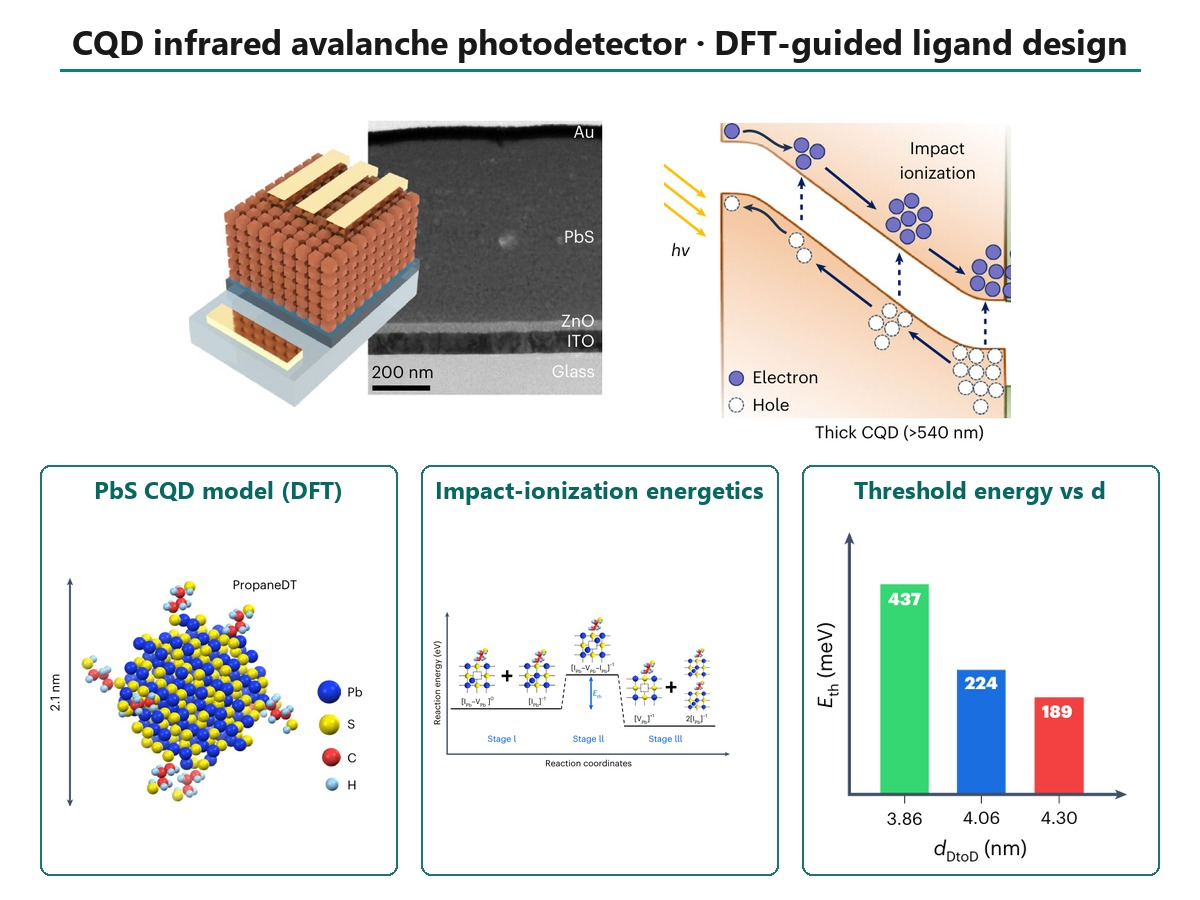
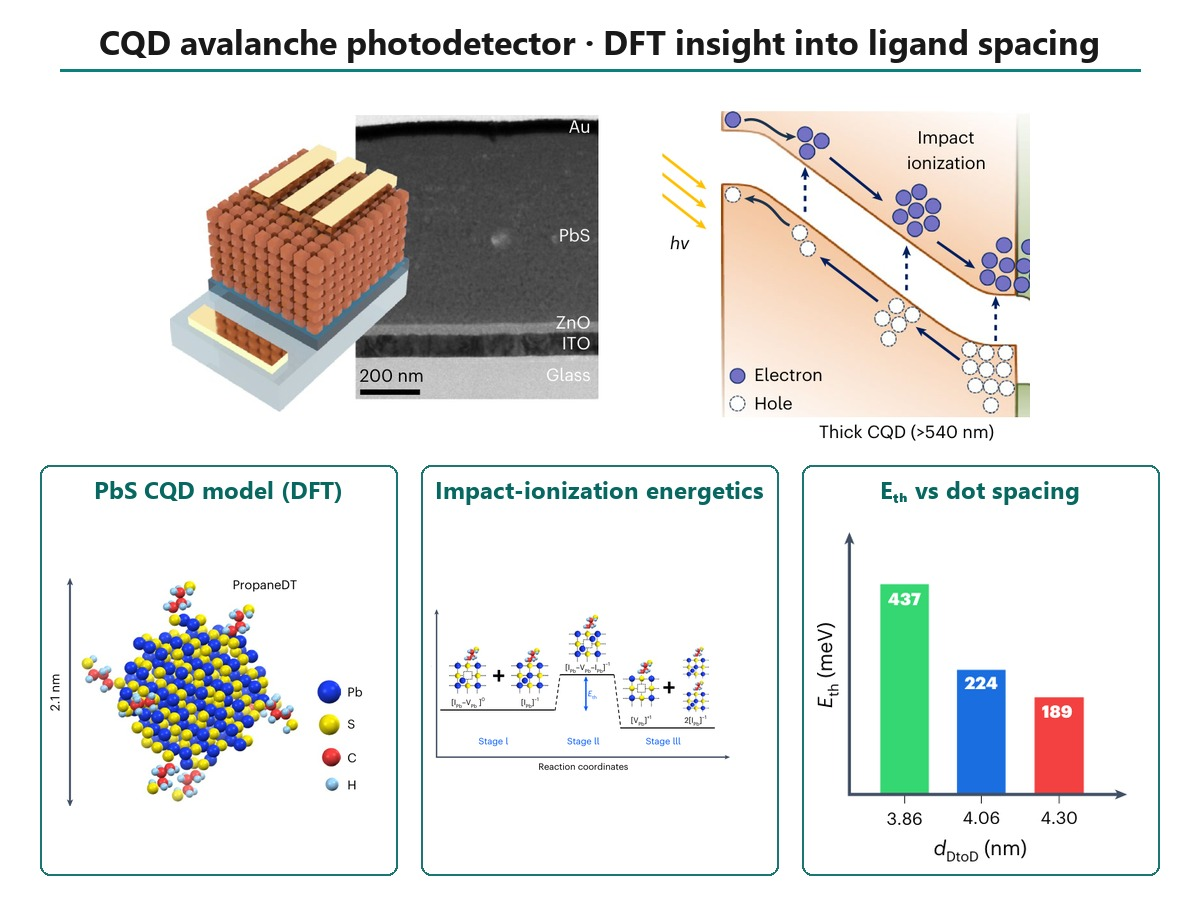
Fix title, crops and captions in thumbnails 41 and 42
Claude-Session: https://claude.ai/code/session_01C8otz9xRUX7zpZLP7SNUXe

diff --git a/index.html b/index.html
@@ -407,6 +407,6 @@
 <script id="imgdata" type="application/json">{"logo": "assets/img/logo.png", "concept": "assets/img/concept.jpg", "scope": "assets/img/scope.jpg?v=20261005", "pillars": "assets/img/pillars.jpg", "qr": "assets/img/qr.jpg", "pi": "assets/img/pi.jpg?v=20261010", "m_bincy": "assets/img/m_bincy.jpg", "m_ganji": "assets/img/m_ganji.jpg", "m_prabha": "assets/img/m_prabha.jpg", "m_ksw": "assets/img/m_ksw.jpg", "m_kjb": "assets/img/m_kjb.jpg", "m_khn": "assets/img/m_khn.jpg", "m_cde": "assets/img/m_cde.jpg", "m_smt": "assets/img/m_smt.jpg", "m_shj": "assets/img/m_shj.jpg", "m_ldg": "assets/img/m_ldg.jpg", "m_lsh": "assets/img/m_lsh.jpg", "m_jsw": "assets/img/m_jsw.jpg", "sw_ansys": "assets/img/sw_ansys.png", "sw_fluent": "assets/img/sw_fluent.png", "sw_comsol": "assets/img/sw_comsol.png", "sw_digimat": "assets/img/sw_digimat.png", "sw_geodict": "assets/img/sw_geodict.png", "sw_hepigans": "assets/img/sw_hepigans.png", "sw_msstudio": "assets/img/sw_msstudio.png", "sw_piano": "assets/img/sw_piano.png", "sw_vasp": "assets/img/sw_vasp.png", "n_grad": "assets/img/n_grad.jpg", "n_cover": "assets/img/n_cover.jpg", "n_plat": "assets/img/n_plat.jpg?v=20260905", "n_award": "assets/img/n_award.jpg", "n_geo": "assets/img/n_geo.jpg", "n_qd": "assets/img/n_qd.jpg", "n_marine": "assets/img/n_marine.jpg", "n_hydro": "assets/img/pub/20.jpg", "n_amds": "assets/img/n_amds.jpg", "n_etamds": "assets/img/n_etamds.jpg", "n_mico": "assets/img/n_mico.jpg", "n_halide": "assets/img/n_halide.jpg?v=20260905", "n_tribo": "assets/img/pub/13.jpg", "m_kgw": "assets/img/m_kgw.jpg", "m_gf": "assets/img/m_gf.jpg", "m_uk": "assets/img/m_uk.jpg"}</script>
 <script id="galdata" type="application/json">[{"id": "e2609b", "date": "2026.09.30–10.02", "title": "Korean Ceramic Society", "note": "추계학술대회", "cover": "assets/img/gallery/e2609b-cover.jpg", "shots": ["assets/img/gallery/e2609b-01.jpg", "assets/img/gallery/e2609b-02.jpg"]}, {"id": "e2609", "date": "2026.09.08", "title": "Welcome, Daeun!", "note": "최다은 연구원 환영회", "cover": "assets/img/gallery/e2609-cover.jpg", "shots": ["assets/img/gallery/e2609-01.jpg"]}, {"id": "e2606", "date": "2026.06.21–24", "title": "CIMTEC 2026 · 10th Forum on New Materials", "note": "Perugia, Italy", "cover": "assets/img/gallery/e2606-cover.jpg", "shots": ["assets/img/gallery/e2606-01.jpg", "assets/img/gallery/e2606-02.jpg", "assets/img/gallery/e2606-04.jpg", "assets/img/gallery/e2606-03.jpg"]}, {"id": "e2605b", "date": "2026.05.15", "title": "Teachers' Day", "note": "스승의 날", "cover": "assets/img/gallery/e2605b-cover.jpg", "shots": ["assets/img/gallery/e2605b-02.jpg"]}, {"id": "e2605a", "date": "2026.05.08", "title": "Homecoming", "note": "졸업생 방문", "cover": "assets/img/gallery/e2605a-cover.jpg", "shots": ["assets/img/gallery/e2605a-14.jpg"]}, {"id": "e2604", "date": "2026.04.08–10", "title": "Korean Ceramic Society", "note": "춘계학술대회", "cover": "assets/img/gallery/e2604-cover.jpg", "shots": ["assets/img/gallery/e2604-08.jpg", "assets/img/gallery/e2604-01.jpg", "assets/img/gallery/e2604-06.jpg"]}, {"id": "e2601", "date": "2026.01.09", "title": "Birthday", "note": "", "cover": "assets/img/gallery/e2601-cover.jpg", "shots": ["assets/img/gallery/e2601-01.jpg"]}, {"id": "e2511", "date": "2025.11.19–22", "title": "39th Korea–Japan Seminar on Ceramics", "note": "Oriental Hotel, Jeju", "cover": "assets/img/gallery/e2511-cover.jpg", "shots": ["assets/img/gallery/e2511-01.jpg", "assets/img/gallery/e2511-02.jpg", "assets/img/gallery/e2511-04.jpg"]}, {"id": "e2506", "date": "2025.06.02", "title": "Congrats, Donggeon!", "note": "이동건 취업 축하 파티", "cover": "assets/img/gallery/e2506-cover.jpg", "shots": ["assets/img/gallery/e2506-01.jpg"]}, {"id": "e2505", "date": "2025.05.15", "title": "Teachers' Day", "note": "스승의 날", "cover": "assets/img/gallery/e2505-cover.jpg", "shots": ["assets/img/gallery/e2505-03.jpg", "assets/img/gallery/e2505-05.jpg"]}, {"id": "e2503", "date": "2025.03.13", "title": "Group meeting", "note": "", "cover": "assets/img/gallery/e2503-cover.jpg", "shots": ["assets/img/gallery/e2503-01.jpg"]}, {"id": "e2502b", "date": "2025.02.27", "title": "Welcome Dr. Karan", "note": "환영회", "cover": "assets/img/gallery/e2502b-cover.jpg", "shots": ["assets/img/gallery/e2502b-01.jpg", "assets/img/gallery/e2502b-02.jpg"]}, {"id": "e2502a", "date": "2025.02.05–07", "title": "Nature Conference: Materials for AI", "note": "KAIST", "cover": "assets/img/gallery/e2502a-cover.jpg", "shots": ["assets/img/gallery/e2502a-01.jpg"]}, {"id": "e2501", "date": "2025.01.10", "title": "Birthday", "note": "", "cover": "assets/img/gallery/e2501-cover.jpg", "shots": ["assets/img/gallery/e2501-01.jpg"]}, {"id": "e2410", "date": "2024.10.16–18", "title": "Korean Ceramic Society", "note": "추계학술대회", "cover": "assets/img/gallery/e2410-cover.jpg", "shots": ["assets/img/gallery/e2410-04.jpg", "assets/img/gallery/e2410-01.jpg", "assets/img/gallery/e2410-02.jpg"]}, {"id": "e2409", "date": "2024.09.22–27", "title": "Multiscale Materials Modeling (MMM11)", "note": "", "cover": "assets/img/gallery/e2409-cover.jpg", "shots": ["assets/img/gallery/e2409-01.jpg", "assets/img/gallery/e2409-02.jpg", "assets/img/gallery/e2409-09.jpg", "assets/img/gallery/e2409-03.jpg", "assets/img/gallery/e2409-04.jpg", "assets/img/gallery/e2409-05.jpg", "assets/img/gallery/e2409-06.jpg"]}, {"id": "e2403", "date": "2024.03.15–16", "title": "Membership Training", "note": "Geoje", "cover": "assets/img/gallery/e2403-cover.jpg", "shots": ["assets/img/gallery/emt-01.jpg"]}, {"id": "e2305", "date": "2023.05.19–20", "title": "Membership Training", "note": "Changwon", "cover": "assets/img/gallery/e2305-cover.jpg", "shots": ["assets/img/gallery/emt-06.jpg", "assets/img/gallery/emt-02.jpg"]}]</script>
 <script id="pubdata" type="application/json">[{"id": 62, "date": "2026-10-01", "year": 2026, "title": "Flavonoid-coordinated NiCo bimetallic complex for interfacial electronic reconstruction and d-band engineering in BiVO4 toward sustainable solar water oxidation", "venue": "Journal of Energy Chemistry", "jif": 15.6, "q": "Q1", "cites": 0, "role": "co-author", "pos": [8, 10], "doi": "https://doi.org/10.1016/j.jechem.2026.06.082", "authors": [{"n": "Pratik Mane", "lab": false, "m": ""}, {"n": "Sampath Prabhakaran", "lab": true, "m": ""}, {"n": "Vishal Burungale", "lab": false, "m": ""}, {"n": "Hyojung Bae", "lab": false, "m": ""}, {"n": "Jiwon Heo", "lab": false, "m": ""}, {"n": "Chaewon Seong", "lab": false, "m": ""}, {"n": "Dhanashri Burungale", "lab": false, "m": ""}, {"n": "Hyunseok Ko", "lab": true, "m": ""}, {"n": "Sang Hyun Lee", "lab": false, "m": ""}, {"n": "Jun-Seok Ha", "lab": false, "m": ""}], "fig": 1}, {"id": 61, "date": "2026-08-25", "year": 2026, "title": "Effect of fumed silica content on the microstructural evolution and mechanical properties of metakaolin-based basalt fiber-reinforced geopolymer matrix composites", "venue": "Advanced Composite Materials", "jif": null, "q": null, "cites": 0, "role": "co-corresponding", "pos": [5, 5], "doi": "https://doi.org/10.1080/09243046.2026.2721819", "authors": [{"n": "Sanghun Lee", "lab": true, "m": "†"}, {"n": "Shinwoo Kang", "lab": true, "m": "†"}, {"n": "Hyung Mi Lim", "lab": false, "m": ""}, {"n": "Seog-Young Yoon", "lab": false, "m": "*"}, {"n": "Hyunseok Ko", "lab": true, "m": "*"}], "fig": 1}, {"id": 60, "date": "2026-11-01", "year": 2026, "title": "Composition and Processing Descriptors Govern Electroceramic Property Prediction: A Multi-Modal Interpretable Framework for BaTiO3-Based Ceramics", "venue": "Journal of Materiomics", "jif": 10.6, "q": "Q1", "cites": 0, "role": "co-corresponding", "pos": [6, 7], "doi": "https://doi.org/10.1016/j.jmat.2026.101282", "authors": [{"n": "Saman khalid", "lab": false, "m": "†"}, {"n": "Muhammad Faseeh", "lab": false, "m": "†"}, {"n": "Murad Ali Khan", "lab": false, "m": ""}, {"n": "Hyejeong Song", "lab": true, "m": ""}, {"n": "Syed Shehryar Ali Naqvi", "lab": false, "m": ""}, {"n": "Hyunseok Ko", "lab": true, "m": "*"}, {"n": "Do-Hyeun Kim", "lab": false, "m": "*"}], "fig": 1}, {"id": 59, "date": "2026-08-01", "year": 2026, "title": "Multi-model machine learning framework for predicting material properties of BaTiO3-based ferroelectric ceramics", "venue": "Materials & Design", "jif": 8.2, "q": "Q1", "cites": 0, "role": "co-corresponding", "pos": [6, 7], "doi": "https://doi.org/10.1016/j.matdes.2026.116418", "authors": [{"n": "Saman Khalid", "lab": false, "m": "†"}, {"n": "Muhammad Faseeh", "lab": false, "m": ""}, {"n": "Hyejeong Song", "lab": true, "m": ""}, {"n": "Murad Ali Khan", "lab": false, "m": ""}, {"n": "Syed Shehryar Ali Naqvi", "lab": false, "m": ""}, {"n": "Hyunseok Ko", "lab": true, "m": "*"}, {"n": "Do-Hyeon Kim", "lab": false, "m": "*"}], "fig": 1}, {"id": 58, "date": "2026-08-01", "year": 2026, "title": "Reinforced surface reactivity via incorporation of metal catalyst onto perovskite oxide for CO2 reduction", "venue": "Materials Today Energy", "jif": 8.1, "q": "Q1", "cites": 0, "role": "co-corresponding", "pos": [9, 10], "doi": "https://doi.org/10.1016/j.mtener.2026.102327", "authors": [{"n": "Sang Won Lee", "lab": false, "m": "†"}, {"n": "Sampath Prabhakaran", "lab": true, "m": "†"}, {"n": "Tae Heon Nam", "lab": false, "m": ""}, {"n": "Geunwoo Kim", "lab": true, "m": ""}, {"n": "Jae Hoon Lim", "lab": false, "m": ""}, {"n": "Hyejeong Song", "lab": true, "m": ""}, {"n": "Sungtae Park", "lab": false, "m": ""}, {"n": "Jong Hyeok Park", "lab": false, "m": "*"}, {"n": "Hyunseok Ko", "lab": true, "m": "*"}, {"n": "Tae Ho Shin", "lab": false, "m": "*"}], "fig": 1}, {"id": 57, "date": "2026-12-01", "year": 2026, "title": "High Polarity Doping of CoFe Layered Hydroxides: Bifunctional and Corrosion-Resistant Anion Exchange Membrane Seawater Electrolyzers", "venue": "Nano-Micro Letters", "jif": 38.5, "q": "Q1", "cites": 2, "role": "co-author", "pos": [6, 11], "doi": "https://doi.org/10.1007/s40820-026-02230-8", "authors": [{"n": "Anandhan Ayyappan Saj", "lab": false, "m": "†"}, {"n": "Sampath Prabhakaran", "lab": true, "m": "†"}, {"n": "Moshin Rasool", "lab": false, "m": ""}, {"n": "Kousik Bhunia", "lab": false, "m": ""}, {"n": "Dongho Lee", "lab": false, "m": ""}, {"n": "Hyunseok Ko", "lab": true, "m": ""}, {"n": "Tukaram D. Dongale", "lab": false, "m": ""}, {"n": "Muthukumar Perumalsamy", "lab": false, "m": ""}, {"n": "Arul Saravanan Raaju Sundhar", "lab": false, "m": ""}, {"n": "Do Hwan Kim", "lab": false, "m": "*"}, {"n": "Sang Jae Kim", "lab": false, "m": "*"}], "fig": 1}, {"id": 56, "date": "2026-08-01", "year": 2026, "title": "Low temperature/low-pressure fabrication of oxide/oxide ceramic matrix composites with excellent mechanical properties and stealth capabilities", "venue": "Advanced Composites and Hybrid Materials", "jif": 15.5, "q": "Q1", "cites": 0, "role": "co-author", "pos": [3, 7], "doi": "https://doi.org/10.1007/s42114-026-01816-5", "authors": [{"n": "Shanigaram Mallesh", "lab": false, "m": "†"}, {"n": "Dong-Jun Hong", "lab": false, "m": ""}, {"n": "Hyunseok Ko", "lab": true, "m": ""}, {"n": "Sanghun Lee", "lab": true, "m": ""}, {"n": "Chae-Hwan Lim", "lab": false, "m": ""}, {"n": "Won-Ho Choi", "lab": false, "m": ""}, {"n": "Young-Woo Nam", "lab": false, "m": "*"}], "fig": 1}, {"id": 55, "date": "2026-06-17", "year": 2026, "title": "Mechanistic insights into vacancy-driven activation and dissociation of hydrogen peroxide on Ti3C2O2 MXene in water", "venue": "Nanoscale Advances", "jif": 6.3, "q": "Q2", "cites": 0, "role": "corresponding", "pos": [2, 2], "doi": "https://doi.org/10.1039/d5na00962f", "authors": [{"n": "Masoud Darvish Ganji", "lab": true, "m": "†"}, {"n": "Hyunseok Ko", "lab": true, "m": "*"}], "fig": 1, "sel": 1}, {"id": 54, "date": "2026-06-01", "year": 2026, "title": "Bridging the theoretical gap between electronic structure and dynamic stability: An integrated computational framework for ZnO sheet-based chemical warfare agent sensors", "venue": "Surfaces and Interfaces", "jif": 6.0, "q": "Q2", "cites": 5, "role": "co-corresponding", "pos": [3, 3], "doi": "https://doi.org/10.1016/j.surfin.2026.109196", "authors": [{"n": "Masoud Darvish Ganji", "lab": true, "m": "†"}, {"n": "Mahyar Rezvani", "lab": false, "m": ""}, {"n": "Hyunseok Ko", "lab": true, "m": "*"}], "fig": 1}, {"id": 53, "date": "2026-07-01", "year": 2026, "title": "Numerical analysis and optimization of horizontal MOCVD reactor design parameters for uniform GaN thin films", "venue": "Journal of the Korean Ceramic Society", "jif": 4.4, "q": "Q1", "cites": 0, "role": "co-corresponding", "pos": [3, 3], "doi": "https://doi.org/10.1007/s43207-026-00602-9", "authors": [{"n": "Haneul Kim", "lab": true, "m": "†"}, {"n": "Roy Byung Kyu Chung", "lab": false, "m": ""}, {"n": "Hyunseok Ko", "lab": true, "m": "*"}], "fig": 1}, {"id": 52, "date": "2026-03-01", "year": 2026, "title": "Processing-structure-property prediction in polycrystalline BaTiO3 ceramics using experimental and computational data fusion", "venue": "Materials Today Communications", "jif": 4.9, "q": "Q2", "cites": 1, "role": "co-corresponding", "pos": [6, 7], "doi": "https://doi.org/10.1016/j.mtcomm.2026.115004", "authors": [{"n": "Muhammad Faseeh", "lab": false, "m": "†"}, {"n": "Hyejeong Song", "lab": true, "m": ""}, {"n": "Murad Ali Khan", "lab": false, "m": ""}, {"n": "Syed Shehryar Ali Naqvi", "lab": false, "m": ""}, {"n": "Saman Khalid", "lab": false, "m": ""}, {"n": "Hyunseok Ko", "lab": true, "m": "*"}, {"n": "Do-Hyeun Kim", "lab": false, "m": "*"}], "fig": 1}, {"id": 51, "date": "2026-03-01", "year": 2026, "title": "Hierarchically structured Cu-Fe-S nanomaterials as dual-functional catalysts for enhanced hydrogen evolution and photocatalytic dye degradation", "venue": "Journal of Alloys and Compounds", "jif": 6.7, "q": "Q2", "cites": 0, "role": "co-corresponding", "pos": [7, 8], "doi": "https://doi.org/10.1016/j.jallcom.2026.187031", "authors": [{"n": "C.K. Sushma", "lab": false, "m": "†"}, {"n": "Hyeon Woo Kim", "lab": false, "m": ""}, {"n": "Maheshkumar V", "lab": false, "m": ""}, {"n": "Anju Sebastian", "lab": false, "m": ""}, {"n": "Masoud Darvish Ganji", "lab": true, "m": ""}, {"n": "Sung Beom Cho", "lab": false, "m": ""}, {"n": "Hyunseok Ko", "lab": true, "m": "*"}, {"n": "Vidhya Bhojan", "lab": false, "m": "*"}], "fig": 1}, {"id": 50, "date": "2026-02-01", "year": 2026, "title": "First-Principles Models of Triboelectrification", "venue": "Small Methods", "jif": 8.7, "q": "Q1", "cites": 0, "role": "co-author", "pos": [3, 6], "doi": "https://doi.org/10.1002/smtd.202501782", "authors": [{"n": "Giulio Fatti", "lab": true, "m": "†"}, {"n": "John Cavin", "lab": false, "m": ""}, {"n": "Hyunseok Ko", "lab": true, "m": ""}, {"n": "Rohan Mishra", "lab": false, "m": ""}, {"n": "Daniele Dini", "lab": false, "m": ""}, {"n": "Sung Beom Cho", "lab": false, "m": ""}], "fig": 1}, {"id": 49, "date": "2026-01-02", "year": 2026, "title": "Toward efficient dielectric material discovery: a comparative evaluation of Transformer and AutoML-based inverse learning", "venue": "Journal of Asian Ceramic Societies", "jif": 1.8, "q": "Q3", "cites": 1, "role": "co-corresponding", "pos": [5, 6], "doi": "https://doi.org/10.1080/21870764.2025.2570561", "authors": [{"n": "Murad Ali Khan", "lab": false, "m": "†"}, {"n": "Hyejeong Song", "lab": true, "m": ""}, {"n": "Syed Shehryar Ali Naqvi", "lab": false, "m": ""}, {"n": "Muhammad Faseeh", "lab": false, "m": ""}, {"n": "Hyunseok Ko", "lab": true, "m": "*"}, {"n": "Do-Hyeun Kim", "lab": false, "m": "*"}], "fig": 1}, {"id": 48, "date": "2025-11-01", "year": 2025, "title": "Boosting the efficiency and stability of cerium-doped trimetallic phosphides for overall water splitting", "venue": "Chemical Engineering Journal", "jif": 12.5, "q": "Q1", "cites": 5, "role": "co-author", "pos": [5, 8], "doi": "https://doi.org/10.1016/j.cej.2025.169404", "authors": [{"n": "Mai Mai", "lab": false, "m": "†"}, {"n": "Sampath Prabhakaran", "lab": true, "m": ""}, {"n": "Huyen Thi Dao", "lab": false, "m": ""}, {"n": "Lan Nguyen", "lab": false, "m": ""}, {"n": "Hyunseok Ko", "lab": true, "m": ""}, {"n": "Young Sun Mok", "lab": false, "m": ""}, {"n": "Van Hien Hoa", "lab": false, "m": "*"}, {"n": "Do Hwan Kim", "lab": false, "m": "*"}], "fig": 1}, {"id": 47, "date": "2025-10-28", "year": 2025, "title": "Engineering multifunctionality in gallium oxide: unveiling novel structural, electronic, and opto-mechanical attributes of gadolinium-doped β-Ga2O3 through advanced first-principles design", "venue": "RSC Advances", "jif": 6.1, "q": "Q2", "cites": 4, "role": "corresponding", "pos": [2, 2], "doi": "https://doi.org/10.1039/d5ra05763a", "authors": [{"n": "Masoud Darvish Ganji", "lab": true, "m": "†"}, {"n": "Hyunseok Ko", "lab": true, "m": "*"}], "fig": 1}, {"id": 46, "date": "2025-09-01", "year": 2025, "title": "Rational material design of chemically inert oxide anode coating layers for lithium metal and all-solid-state batteries", "venue": "Applied Surface Science Advances", "jif": 10.0, "q": "Q1", "cites": 0, "role": "co-author", "pos": [6, 10], "doi": "https://doi.org/10.1016/j.apsadv.2025.100842", "authors": [{"n": "Dong Won Jeon", "lab": false, "m": "†"}, {"n": "Wootaek Choi", "lab": false, "m": ""}, {"n": "Jun Hyuk Kang", "lab": false, "m": ""}, {"n": "Hyeon Woo Kim", "lab": false, "m": ""}, {"n": "Min Sung Kang", "lab": false, "m": ""}, {"n": "Woongchan Kim", "lab": false, "m": ""}, {"n": "Han Uk Lee", "lab": false, "m": ""}, {"n": "Hyunseok Ko", "lab": true, "m": ""}, {"n": "Patrick Joohyun Kim", "lab": false, "m": "*"}, {"n": "Sung Beom Cho", "lab": false, "m": "*"}], "fig": 1}, {"id": 45, "date": "2025-06-30", "year": 2025, "title": "초저궤도 우주환경에서 자기 강화 원자산소 저항 산화층이 형성된 산화물/산화물 세라믹 복합재 구조의 손상 거동 평가", "venue": "복합재료 (Composites Research), 한국복합재료학회", "jif": null, "q": null, "cites": 0, "role": "co-author", "pos": [6, 8], "doi": "https://doi.org/10.7234/composres.2025.38.3.333", "authors": [{"n": "Chae-Hwan Lim", "lab": false, "m": "†"}, {"n": "Dong-Jun Hong", "lab": false, "m": ""}, {"n": "Hanna Jang", "lab": false, "m": ""}, {"n": "Seung-Hyeon Kang", "lab": false, "m": ""}, {"n": "Sang-Hoon Lee", "lab": true, "m": ""}, {"n": "Hyunseok Ko", "lab": true, "m": ""}, {"n": "Won-Ho Choi", "lab": false, "m": ""}, {"n": "Young-Woo Nam", "lab": false, "m": ""}], "fig": 1}, {"id": 44, "date": "2025-09-01", "year": 2025, "title": "First-principles investigation of Mo-doped β-Ga2O3: Prospects for visible light technologies and spintronics", "venue": "Physica B: Condensed Matter", "jif": 3.2, "q": "Q2", "cites": 8, "role": "corresponding", "pos": [5, 5], "doi": "https://doi.org/10.1016/j.physb.2025.417334", "authors": [{"n": "Masoud Darvish Ganji", "lab": true, "m": "†"}, {"n": "Hyejeong Song", "lab": true, "m": ""}, {"n": "Ji-Hyeon Park", "lab": false, "m": ""}, {"n": "Dae-Woo Jeon", "lab": false, "m": ""}, {"n": "Hyunseok Ko", "lab": true, "m": "*"}], "fig": 1}, {"id": 43, "date": "2025-03-12", "year": 2025, "title": "Accentuating the ambient curing behavior of geopolymers: metamodel-guided optimization for fast-curing geopolymers with high flexural strength", "venue": "Digital Discovery", "jif": 7.1, "q": "Q1", "cites": 4, "role": "corresponding", "pos": [5, 6], "doi": "https://doi.org/10.1039/d4dd00217b", "authors": [{"n": "Kyungwon Kim", "lab": true, "m": "†"}, {"n": "Hyejeong Song", "lab": true, "m": "†"}, {"n": "Sanghun Lee", "lab": true, "m": ""}, {"n": "Hyung-Kyu Cho", "lab": false, "m": ""}, {"n": "Hyung-Mi Lim", "lab": false, "m": ""}, {"n": "Hyunseok Ko", "lab": true, "m": "*"}], "fig": 1}, {"id": 42, "date": "2025-01-14", "year": 2025, "title": "First-Principle Insights into Positive Triboelectrification of Polyoxymethylene Through Homolytic Bond Rupture", "venue": "Nanoenergy Advances", "jif": 4.2, "q": "Q3", "cites": 2, "role": "co-author", "pos": [2, 3], "doi": "https://doi.org/10.3390/nanoenergyadv5010001", "authors": [{"n": "Giulio Fatti", "lab": true, "m": "†*"}, {"n": "Hyunseok Ko", "lab": true, "m": ""}, {"n": "Sung Beom Cho", "lab": false, "m": ""}], "fig": 1}, {"id": 41, "date": "2025-02-01", "year": 2025, "title": "Ultrahigh-gain colloidal quantum dot infrared avalanche photodetectors", "venue": "Nature Nanotechnology", "jif": 37.5, "q": "Q1", "cites": 47, "role": "first", "pos": [3, 9], "doi": "https://doi.org/10.1038/s41565-024-01831-x", "authors": [{"n": "Byeongsu Kim", "lab": false, "m": "†"}, {"n": "Sang Yeon Lee", "lab": false, "m": "†"}, {"n": "Hyunseok Ko", "lab": true, "m": "†"}, {"n": "Jihyung Lee", "lab": false, "m": ""}, {"n": "Hyejeong Song", "lab": true, "m": ""}, {"n": "Sungjun Cho", "lab": false, "m": ""}, {"n": "Min-Ho Lee", "lab": false, "m": ""}, {"n": "Jung-Yong Lee", "lab": false, "m": ""}], "fig": 1, "sel": 1}, {"id": 40, "date": "2025-04-01", "year": 2025, "title": "Unveiling the Aluminum Doping Effects of In-Situ Transmogrified Dual-LDH Heterostructure and Its Fermi-Level Alignment to Water Splitting Potentials", "venue": "Advanced Energy Materials", "jif": 25.5, "q": "Q1", "cites": 39, "role": "co-author", "pos": [10, 11], "doi": "https://doi.org/10.1002/aenm.202403889", "authors": [{"n": "Nandapriya Manivelan", "lab": false, "m": "†"}, {"n": "Junji Piao", "lab": false, "m": ""}, {"n": "Jaekook Kim", "lab": false, "m": ""}, {"n": "Seunghwa Lee", "lab": false, "m": ""}, {"n": "Youngji Kim", "lab": false, "m": ""}, {"n": "Vaiyapuri Soundharrajan", "lab": false, "m": ""}, {"n": "Min-Kyu Son", "lab": false, "m": ""}, {"n": "Amir Humayun", "lab": false, "m": ""}, {"n": "Masoud Darvish Ganji", "lab": true, "m": ""}, {"n": "Hyunseok Ko", "lab": true, "m": ""}, {"n": "Kandasamy Prabakar", "lab": false, "m": ""}], "fig": 1}, {"id": 39, "date": "2025-01-01", "year": 2025, "title": "Machine learning-enhanced design of lead-free halide perovskite materials using density functional theory", "venue": "Current Applied Physics", "jif": 2.8, "q": "Q3", "cites": 7, "role": "co-corresponding", "pos": null, "doi": "https://doi.org/10.1016/j.cap.2024.10.012", "authors": [{"n": "Upendra Kumar", "lab": true, "m": "†"}, {"n": "Hyeon Woo Kim", "lab": false, "m": "†"}, {"n": "Gyanendra Kumar Maurya", "lab": false, "m": ""}, {"n": "Bincy Babu Raj", "lab": true, "m": ""}, {"n": "Sobhit Singh", "lab": false, "m": ""}, {"n": "Ajay Kumar Kushwaha", "lab": false, "m": ""}, {"n": "Sung Beom Cho", "lab": false, "m": "*"}, {"n": "Hyunseok Ko", "lab": true, "m": "*"}], "fig": 1}, {"id": 38, "date": "2024-11-01", "year": 2024, "title": "Suppressing Hole Accumulation Through Sub-Nanometer Dipole Interfaces in Hybrid Perovskite/Organic Solar Cells for Boosting Near-Infrared Photon Harvesting", "venue": "Advanced Materials", "jif": 29.1, "q": "Q1", "cites": 22, "role": "co-author", "pos": [9, 13], "doi": "https://doi.org/10.1002/adma.202411015", "authors": [{"n": "Min-Ho Lee", "lab": false, "m": "†"}, {"n": "Min Seok Kim", "lab": false, "m": ""}, {"n": "Yu Jin Lee", "lab": false, "m": ""}, {"n": "Byeongsu Kim", "lab": false, "m": ""}, {"n": "Ju-Hyeon Kim", "lab": false, "m": ""}, {"n": "Chungryeol Lee", "lab": false, "m": ""}, {"n": "Jihyung Lee", "lab": false, "m": ""}, {"n": "Dong-Jun Kim", "lab": false, "m": ""}, {"n": "Hyunseok Ko", "lab": true, "m": ""}, {"n": "Masoud Darvish Ganji", "lab": true, "m": ""}, {"n": "Kwanghee Lee", "lab": false, "m": ""}, {"n": "Woojae Kim", "lab": false, "m": ""}, {"n": "Jung-Yong Lee", "lab": false, "m": ""}], "fig": 1}, {"id": 37, "date": "2024-12-10", "year": 2024, "title": "Overcoming the limitations of atomic-scale simulations on semiconductor catalysis with changing Fermi level and surface treatment", "venue": "Journal of Materials Chemistry A", "jif": 9.2, "q": "Q1", "cites": 4, "role": "co-corresponding", "pos": [12, 14], "doi": "https://doi.org/10.1039/d4ta03595j", "authors": [{"n": "Seulgi ji", "lab": false, "m": "†"}, {"n": "Dong Won Jeon", "lab": false, "m": ""}, {"n": "Junghyun Choi", "lab": false, "m": ""}, {"n": "Haneol Cho", "lab": false, "m": ""}, {"n": "Bo-In Park", "lab": false, "m": ""}, {"n": "Ilpyo Roh", "lab": false, "m": ""}, {"n": "Hyungil Choi", "lab": false, "m": ""}, {"n": "Chansoo Kim", "lab": false, "m": ""}, {"n": "Jung Kyu Kim", "lab": false, "m": ""}, {"n": "Uk sim", "lab": false, "m": ""}, {"n": "Danlei Li", "lab": false, "m": ""}, {"n": "Hyunseok Ko", "lab": true, "m": "*"}, {"n": "Sung Beom Cho", "lab": false, "m": "*"}, {"n": "Heechae Choi", "lab": false, "m": "*"}], "fig": 1, "sel": 1}, {"id": 36, "date": "2024-11-01", "year": 2024, "title": "Multifaceted investigation into the impact of Ga substitution for Al in V2MnAl inverse Heusler alloys", "venue": "Physica B: Condensed Matter", "jif": 3.2, "q": "Q2", "cites": 3, "role": "co-corresponding", "pos": [4, 5], "doi": "https://doi.org/10.1016/j.physb.2024.416345", "authors": [{"n": "Shashank Shekhar Mishra", "lab": false, "m": "†"}, {"n": "Upendra Kumar", "lab": true, "m": "†"}, {"n": "Bincy Babu Raj", "lab": true, "m": ""}, {"n": "Hyunseok Ko", "lab": true, "m": "*"}, {"n": "Thakur Prasad Yadav", "lab": false, "m": "*"}], "fig": 1}, {"id": 35, "date": "2024-05-08", "year": 2024, "title": "Unravelling performance of honeycomb structures as drug delivery systems for the isoniazid drug using DFT-D3 correction dispersion and molecular dynamic simulations", "venue": "Physical Chemistry Chemical Physics", "jif": 3.0, "q": "Q3", "cites": 50, "role": "co-author", "pos": [2, 8], "doi": "https://doi.org/10.1039/d3cp05457h", "authors": [{"n": "Masoud Darvish Ganji", "lab": true, "m": "†"}, {"n": "Hyunseok Ko", "lab": true, "m": ""}, {"n": "Saeed Jamehbozorgi", "lab": false, "m": ""}, {"n": "Mahmood Tajbakhsh", "lab": false, "m": ""}, {"n": "Sepideh Tanreh", "lab": false, "m": ""}, {"n": "Rosa Pahlavan Nejad", "lab": false, "m": ""}, {"n": "Mahboubeh Sepahvand", "lab": false, "m": ""}, {"n": "Mahyar Rezvani", "lab": false, "m": "*"}], "fig": 1}, {"id": 34, "date": "2024-05-01", "year": 2024, "title": "Morphological diversity in directionally-solidified microstructures with varying anisotropy of solid-liquid interfacial free energy", "venue": "Journal of Materials Research and Technology", "jif": 7.3, "q": "Q1", "cites": 6, "role": "co-corresponding", "pos": [4, 5], "doi": "https://doi.org/10.1016/j.jmrt.2024.04.126", "authors": [{"n": "Geunwoo Kim", "lab": true, "m": "†"}, {"n": "Tomohiro Takaki", "lab": false, "m": ""}, {"n": "Yasushi Shibuta", "lab": false, "m": ""}, {"n": "Hyunseok Ko", "lab": true, "m": "*"}, {"n": "Munekazu Ohno", "lab": false, "m": "*"}], "fig": 1}, {"id": 33, "date": "2024-01-01", "year": 2024, "title": "Designing Pr-based advanced photoluminescent materials using machine learning and density functional theory", "venue": "Journal of Materials Science", "jif": 4.4, "q": "Q2", "cites": 5, "role": "corresponding", "pos": [5, 5], "doi": "https://doi.org/10.1007/s10853-023-09232-6", "authors": [{"n": "Upendra Kumar", "lab": true, "m": "†"}, {"n": "Hyeon Woo Kim", "lab": false, "m": ""}, {"n": "Sobhit Singh", "lab": false, "m": ""}, {"n": "Sung Beom Cho", "lab": false, "m": "*"}, {"n": "Hyunseok Ko", "lab": true, "m": "*"}], "fig": 1}, {"id": 32, "date": "2024-04-01", "year": 2024, "title": "Sequential doping strategy in rutile TiO2 nanorod for high performance photoanode", "venue": "Applied Surface Science", "jif": 6.6, "q": "Q1", "cites": 6, "role": "co-corresponding", "pos": [10, 11], "doi": "https://doi.org/10.1016/j.apsusc.2023.159213", "authors": [{"n": "Sang Yeon Lee", "lab": false, "m": "†"}, {"n": "Young Jae Lee", "lab": false, "m": ""}, {"n": "Il-han Yoo", "lab": false, "m": ""}, {"n": "Hyeon Woo Kim", "lab": false, "m": ""}, {"n": "Hyejeong Song", "lab": true, "m": ""}, {"n": "Soo Won Heo", "lab": false, "m": ""}, {"n": "Shankara S Kalanur", "lab": false, "m": ""}, {"n": "Gourab Mohapatra", "lab": false, "m": ""}, {"n": "Hyunseok Ko", "lab": true, "m": "*"}, {"n": "Hyungtak Seo", "lab": false, "m": "*"}], "fig": 1}, {"id": 31, "date": "2023-12-01", "year": 2023, "title": "Radar absorption characteristics of ceramic oxide fiber/aluminosilicate-sendust composite structure at ultrahigh temperatures", "venue": "Journal of Alloys and Compounds", "jif": 6.7, "q": "Q1", "cites": 24, "role": "co-author", "pos": [3, 7], "doi": "https://doi.org/10.1016/j.jallcom.2023.171979", "authors": [{"n": "Shanigaram Mallesh", "lab": false, "m": "†"}, {"n": "Dongyoung Shim", "lab": false, "m": "†"}, {"n": "Hyunseok Ko", "lab": true, "m": ""}, {"n": "Younghoon Kang", "lab": false, "m": ""}, {"n": "Dongjun Hong", "lab": false, "m": ""}, {"n": "Byeongsu Kwak", "lab": false, "m": ""}, {"n": "Youngwoo Nam", "lab": false, "m": ""}], "fig": 1}, {"id": 30, "date": "2023-11-24", "year": 2023, "title": "Explainable AI for Material Property Prediction Based on Energy Cloud: A Shapley-Driven Approach", "venue": "Materials", "jif": 3.7, "q": "Q2", "cites": 28, "role": "co-author", "pos": [4, 5], "doi": "https://doi.org/10.3390/ma16237322", "authors": [{"n": "Faiza Qayyum", "lab": false, "m": "†"}, {"n": "Murad Ali Khan", "lab": false, "m": ""}, {"n": "Do-Hyeun Kim", "lab": false, "m": "*"}, {"n": "Hyunseok Ko", "lab": true, "m": ""}, {"n": "Ga-Ae Ryu", "lab": false, "m": "*"}], "fig": 1}, {"id": 29, "date": "2023-10-01", "year": 2023, "title": "Uncertainty and Irreproducibility of Triboelectricity Based on Interface Mechanochemistry", "venue": "Physical Review Letters", "jif": 9.4, "q": "Q1", "cites": 21, "role": "co-author", "pos": [9, 11], "doi": "https://doi.org/10.1103/physrevlett.131.166201", "authors": [{"n": "Giulio Fatti", "lab": true, "m": "†"}, {"n": "Hyunseung Kim", "lab": false, "m": ""}, {"n": "Changwan Sohn", "lab": false, "m": ""}, {"n": "Minah Park", "lab": false, "m": ""}, {"n": "Yeong-won Lim", "lab": false, "m": ""}, {"n": "Zhuohan Li", "lab": false, "m": ""}, {"n": "Kwi-Il Park", "lab": false, "m": ""}, {"n": "Izabela Szlufarska", "lab": false, "m": ""}, {"n": "Hyunseok Ko", "lab": true, "m": ""}, {"n": "Chang Kyu Jeong", "lab": false, "m": ""}, {"n": "Sung Beom Cho", "lab": false, "m": ""}], "fig": 1}, {"id": 28, "date": "2023-10-01", "year": 2023, "title": "A versatile strategy for hybridizing small experimental and large simulation data: A case for ceramic tape-casting process", "venue": "Materials & Design", "jif": 8.2, "q": "Q1", "cites": 6, "role": "first", "pos": [2, 8], "doi": "https://doi.org/10.1016/j.matdes.2023.112357", "authors": [{"n": "Jeong-Hun Kim", "lab": false, "m": "†"}, {"n": "Hyunseok Ko", "lab": true, "m": "†"}, {"n": "Dong-Hun Yeo", "lab": false, "m": ""}, {"n": "Zeehoon Park", "lab": false, "m": ""}, {"n": "Upendra Kumar", "lab": true, "m": ""}, {"n": "Kwan-Hee Yoo", "lab": false, "m": ""}, {"n": "Aziz Nasridinov", "lab": false, "m": ""}, {"n": "Sung Beom Cho", "lab": false, "m": ""}], "fig": 1, "sel": 1}, {"id": 27, "date": "2023-11-01", "year": 2023, "title": "Rational Design Strategy for Triboelectric Nanogenerators Based on Electron Back Flow and Ionic Defects: The Case of Polytetrafluoroethylene", "venue": "Advanced Electronic Materials", "jif": 5.9, "q": "Q1", "cites": 15, "role": "co-corresponding", "pos": [3, 11], "doi": "https://doi.org/10.1002/aelm.202300333", "authors": [{"n": "Giulio Fatti", "lab": true, "m": "†*"}, {"n": "Alessandra Ciniero", "lab": false, "m": ""}, {"n": "Hyunseok Ko", "lab": true, "m": "*"}, {"n": "Han Uk Lee", "lab": false, "m": ""}, {"n": "Yujin Na", "lab": false, "m": ""}, {"n": "Chang Kyu Jeong", "lab": false, "m": ""}, {"n": "Sang-geul Lee", "lab": false, "m": ""}, {"n": "Dongyub Kwak", "lab": false, "m": ""}, {"n": "Kwi-Il Park", "lab": false, "m": "*"}, {"n": "Sung Beom Cho", "lab": false, "m": "*"}, {"n": "Daniele Dini", "lab": false, "m": ""}], "fig": 1}, {"id": 26, "date": "2023-09-01", "year": 2023, "title": "Isovalent multi-component doping strategy for stabilizing cubic-Li7La3Zr2O12 with excellent Li mobility", "venue": "Chemical Engineering Journal", "jif": 12.5, "q": "Q1", "cites": 21, "role": "co-author", "pos": [4, 9], "doi": "https://doi.org/10.1016/j.cej.2023.144552", "authors": [{"n": "Han Uk Lee", "lab": false, "m": "†"}, {"n": "SeungminHan", "lab": false, "m": ""}, {"n": "Dong Geon Lee", "lab": true, "m": ""}, {"n": "Hyunseok Ko", "lab": true, "m": ""}, {"n": "Juhyun Lee", "lab": false, "m": ""}, {"n": "Won Bin Im", "lab": false, "m": ""}, {"n": "Taeseup Song", "lab": false, "m": ""}, {"n": "Junghyun Choi", "lab": false, "m": "*"}, {"n": "Sung Beom Cho", "lab": false, "m": "*"}], "fig": 1}, {"id": 25, "date": "2023-08-31", "year": 2023, "title": "Understanding the Electrokinetic Role of Ions on Electricity Generation in Droplet-Based Hydrovoltaic Systems", "venue": "Journal of Physical Chemistry C", "jif": 3.4, "q": "Q3", "cites": 15, "role": "co-author", "pos": [2, 4], "doi": "https://doi.org/10.1021/acs.jpcc.3c03183", "authors": [{"n": "Min Sung Kang", "lab": false, "m": "†"}, {"n": "Hyunseok Ko", "lab": true, "m": ""}, {"n": "Seokhee Lee", "lab": false, "m": "*"}, {"n": "Sung Beom Cho", "lab": false, "m": "*"}], "fig": 1}, {"id": 24, "date": "2023-08-01", "year": 2023, "title": "Dispersion control via crystal-phase modulation of yttrium-doped ZrO2 nanoparticle sol", "venue": "Colloids and Surfaces A: Physicochemical and Engineering Aspects", "jif": 5.4, "q": "Q2", "cites": 10, "role": "first", "pos": [2, 5], "doi": "https://doi.org/10.1016/j.colsurfa.2023.131476", "authors": [{"n": "Hee-Seon Lee", "lab": false, "m": "†"}, {"n": "Hyunseok Ko", "lab": true, "m": "†"}, {"n": "Kyuyoung Heo", "lab": false, "m": ""}, {"n": "Heesoo Lee", "lab": false, "m": ""}, {"n": "Hyung Mi Lim", "lab": false, "m": ""}], "fig": 1}, {"id": 23, "date": "2023-08-11", "year": 2023, "title": "High-Throughput Screening on Halide Perovskite Derivatives and Rational Design of Cs3LuCl6", "venue": "ACS Energy Letters", "jif": 17.5, "q": "Q1", "cites": 27, "role": "first", "pos": [3, 10], "doi": "https://doi.org/10.1021/acsenergylett.3c01207", "authors": [{"n": "Hyeon Woo Kim", "lab": false, "m": "†"}, {"n": "Joo Hyeong Han", "lab": false, "m": "†"}, {"n": "Hyunseok Ko", "lab": true, "m": "†"}, {"n": "Tuhin Samanta", "lab": false, "m": ""}, {"n": "Dong Geon Lee", "lab": true, "m": ""}, {"n": "Dong Won Jeon", "lab": false, "m": ""}, {"n": "Woongchan Kim", "lab": false, "m": ""}, {"n": "Yong-Chae Chung", "lab": false, "m": ""}, {"n": "Won Bin Im", "lab": false, "m": "*"}, {"n": "Sung Beom Cho", "lab": false, "m": "*"}], "fig": 1}, {"id": 22, "date": "2023-05-01", "year": 2023, "title": "Fabrication of thin and lightweight cobalt-coated quartz fiber/aluminosilicate composites for high-temperature microwave absorption", "venue": "Ceramics International", "jif": 6.0, "q": "Q1", "cites": 27, "role": "co-author", "pos": [3, 7], "doi": "https://doi.org/10.1016/j.ceramint.2022.12.235", "authors": [{"n": "Wonwoo Choi", "lab": false, "m": "†"}, {"n": "Shanigaram Mallesh", "lab": false, "m": "†"}, {"n": "Hyunseok Ko", "lab": true, "m": ""}, {"n": "Minjun Kim", "lab": false, "m": ""}, {"n": "Joonhyung Shin", "lab": false, "m": ""}, {"n": "Kyungwon Kim", "lab": true, "m": ""}, {"n": "Youngwoo Nam", "lab": false, "m": ""}], "fig": 1}, {"id": 21, "date": "2023-04-01", "year": 2023, "title": "Modulation of Molybdenum oxidation state via Catalytic-oxidation", "venue": "Applied Surface Science", "jif": 6.6, "q": "Q1", "cites": 14, "role": "co-author", "pos": [3, 8], "doi": "https://doi.org/10.1016/j.apsusc.2023.156330", "authors": [{"n": "Kangchun Lee", "lab": false, "m": "†"}, {"n": "Seho Sun", "lab": false, "m": ""}, {"n": "Hyunseok Ko", "lab": true, "m": ""}, {"n": "Sung Beom Cho", "lab": false, "m": ""}, {"n": "Ganggyu Lee", "lab": false, "m": ""}, {"n": "Dongsoo Lee", "lab": false, "m": ""}, {"n": "Taeseup Song", "lab": false, "m": ""}, {"n": "Ungyu Paik", "lab": false, "m": ""}], "fig": 1}, {"id": 20, "date": "2023-01-17", "year": 2023, "title": "Why does water in porous carbon generate electricity? Electrokinetic role of protons in a water droplet-induced hydrovoltaic system of hydrophilic porous carbon", "venue": "Journal of Materials Chemistry A", "jif": 9.2, "q": "Q1", "cites": 33, "role": "first", "pos": [1, 8], "doi": "https://doi.org/10.1039/d2ta05281d", "authors": [{"n": "Hyunseok Ko", "lab": true, "m": "†"}, {"n": "Wonkyeong Son", "lab": false, "m": ""}, {"n": "Min Sung Kang", "lab": false, "m": ""}, {"n": "Han Uk Lee", "lab": false, "m": ""}, {"n": "Chan-Yeup Chung", "lab": false, "m": ""}, {"n": "Seungwu Han", "lab": false, "m": ""}, {"n": "Changsoon Choi", "lab": false, "m": ""}, {"n": "Sung Beom Cho", "lab": false, "m": "*"}], "fig": 1, "sel": 1}, {"id": 19, "date": "2022-09-30", "year": 2022, "title": "Establishment of a BaTiO3-based Computational Science Platform to Predict Multi-component Properties", "venue": "JOURNAL OF SENSOR SCIENCE AND TECHNOLOGY", "jif": null, "q": null, "cites": null, "role": "co-corresponding", "pos": [4, 5], "doi": "https://doi.org/10.46670/jsst.2022.31.5.318", "authors": [{"n": "Dong Geon Lee", "lab": true, "m": "†"}, {"n": "Han Uk  Lee", "lab": false, "m": ""}, {"n": "Won Bin Im", "lab": false, "m": ""}, {"n": "Hyunseok Ko", "lab": true, "m": "*"}, {"n": "Sung Beom Cho", "lab": false, "m": "*"}], "fig": 1}, {"id": 18, "date": "2022-06-28", "year": 2022, "title": "Fast-curing geopolymer foams with an enhanced pore homogeneity derived by hydrogen peroxide and sodium dodecyl sulfate surfactant", "venue": "Minerals", "jif": null, "q": null, "cites": 21, "role": "corresponding", "pos": [4, 4], "doi": "https://doi.org/10.3390/min12070821", "authors": [{"n": "Kyungwon Kim", "lab": true, "m": "†"}, {"n": "Hyung Mi Lim", "lab": false, "m": ""}, {"n": "Seog-Young Yoon", "lab": false, "m": ""}, {"n": "Hyunseok Ko", "lab": true, "m": "*"}], "fig": 1}, {"id": 17, "date": "2022-06-28", "year": 2022, "title": "Dominant Effects of Epitaxial Strain on the Phase Control of Heterostructural (In x Ga1-x) 2O3 Alloys", "venue": "ACS Applied Electronic Materials", "jif": null, "q": null, "cites": 4, "role": "co-author", "pos": [4, 5], "doi": "https://doi.org/10.1021/acsaelm.2c00240", "authors": [{"n": "Han Uk Lee", "lab": false, "m": "†"}, {"n": "Hyeon Woo Kim", "lab": false, "m": ""}, {"n": "Giulio Fatti", "lab": true, "m": ""}, {"n": "Hyunseok Ko", "lab": true, "m": ""}, {"n": "Sung Beom Cho", "lab": false, "m": "*"}], "fig": 1}, {"id": 16, "date": "2021-03-01", "year": 2021, "title": "High-temperature viscosity analysis of aluminosilicate melts and the comparison to empirical models", "venue": "Journal of the Korean Ceramic Society", "jif": null, "q": null, "cites": 5, "role": "first", "pos": [1, 4], "doi": "https://doi.org/10.1007/s43207-020-00078-1", "authors": [{"n": "Hyunseok Ko", "lab": true, "m": "†"}, {"n": "Myounguk Kim", "lab": false, "m": ""}, {"n": "Sun-Min Park", "lab": false, "m": ""}, {"n": "Hyung Mi Lim", "lab": false, "m": ""}], "fig": 1}, {"id": 15, "date": "2021-01-01", "year": 2021, "title": "Heterostructural phase diagram of Ga2O3-based solid solution with Al2O3", "venue": "Journal of the European Ceramic Society", "jif": null, "q": null, "cites": 32, "role": "co-author", "pos": [2, 4], "doi": "https://doi.org/10.1016/j.jeurceramsoc.2020.08.067", "authors": [{"n": "Hyeon Woo Kim", "lab": false, "m": "†"}, {"n": "Hyunseok Ko", "lab": true, "m": ""}, {"n": "Yong-Chae Chung", "lab": false, "m": ""}, {"n": "Sung Beom Cho", "lab": false, "m": ""}], "fig": 1}, {"id": 14, "date": "2021-11-01", "year": 2021, "title": "Correlation between viscoelasticity of aluminosilicate melts and elastic properties of melt-spun fibers", "venue": "Journal of Non-Crystalline Solids", "jif": null, "q": null, "cites": 1, "role": "first", "pos": [1, 4], "doi": "https://doi.org/10.1016/j.jnoncrysol.2021.121110", "authors": [{"n": "Hyunseok Ko", "lab": true, "m": "†"}, {"n": "Myounguk Kim", "lab": false, "m": ""}, {"n": "Sun-Min Park", "lab": false, "m": ""}, {"n": "Hyung Mi Lim", "lab": false, "m": ""}], "fig": 1}, {"id": 13, "date": "2021-08-13", "year": 2021, "title": "Triboelectrification: backflow and stuck charges are key", "venue": "ACS Energy Letters", "jif": null, "q": null, "cites": null, "role": "first", "pos": [1, 5], "doi": "https://doi.org/10.1021/acsenergylett.1c01019", "authors": [{"n": "Hyunseok Ko", "lab": true, "m": "†"}, {"n": "Yeong-Won Lim", "lab": false, "m": "†"}, {"n": "Seungwu Han", "lab": false, "m": ""}, {"n": "Chang Kyu Jeong", "lab": false, "m": "*"}, {"n": "Sung Beom Cho", "lab": false, "m": "*"}], "sel": 1, "fig": 1}, {"id": 12, "date": "2020-06-01", "year": 2020, "title": "Development of novel refractory ceramic continuous fibers of fly ash and comparison of mechanical properties with those of E-glass fibers using the Weibull distribution", "venue": "Ceramics International", "jif": null, "q": null, "cites": 11, "role": "first", "pos": [2, 7], "doi": "https://doi.org/10.1016/j.ceramint.2020.02.102", "authors": [{"n": "Myounguk Kim", "lab": false, "m": "†"}, {"n": "Hyunseok Ko", "lab": true, "m": "†"}, {"n": "Taesang Kwon", "lab": false, "m": ""}, {"n": "Hwang-Cheol Bae", "lab": false, "m": ""}, {"n": "Cheol-Hoon Jang", "lab": false, "m": ""}, {"n": "Bi-Ung Heo", "lab": false, "m": ""}, {"n": "Sun-Min Park", "lab": false, "m": ""}], "fig": 1}, {"id": 11, "date": "2020-10-01", "year": 2020, "title": "Effects of additives in colloidal silica based inorganic-hybrid binder for mineral wool insulation boards", "venue": "Journal of Asian Ceramic Societies", "jif": null, "q": null, "cites": 8, "role": "first", "pos": [1, 3], "doi": "https://doi.org/10.1080/21870764.2020.1842118", "authors": [{"n": "Hyunseok Ko", "lab": true, "m": "†"}, {"n": "Hee-Seon Lee", "lab": false, "m": ""}, {"n": "Hyung Mi Lim", "lab": false, "m": ""}], "fig": 1}, {"id": 10, "date": "2020-01-31", "year": 2020, "title": "Physiochemical effects of SiC and ZrO2 particle fillers on the properties of enamel coatings", "venue": "Coatings", "jif": null, "q": null, "cites": 4, "role": "first", "pos": [1, 5], "doi": "https://doi.org/10.3390/coatings10020121", "authors": [{"n": "Hyunseok Ko", "lab": true, "m": "†"}, {"n": "Sung-Jin Lee", "lab": false, "m": ""}, {"n": "Jae-Jong Oh", "lab": false, "m": ""}, {"n": "Seungho Lee", "lab": false, "m": "*"}, {"n": "Hyung Mi Lim", "lab": false, "m": "†*"}], "fig": 1}, {"id": 9, "date": "2019-11-01", "year": 2019, "title": "Effects of chemical composition of Ca (OH) 2 and precursors on the properties of fast-curing geopolymers", "venue": "Korean Journal of Materials Research", "jif": null, "q": null, "cites": 3, "role": "first", "pos": [1, 3], "doi": "https://doi.org/10.3740/mrsk.2019.29.11.690", "authors": [{"n": "Hyunseok Ko", "lab": true, "m": "†"}, {"n": "Jungyoung Noh", "lab": false, "m": ""}, {"n": "Hyung Mi Lim", "lab": false, "m": ""}], "fig": 1}, {"id": 8, "date": "2019-06-15", "year": 2019, "title": "Development of High Performance Exterior Ceramic Fiber Insulator with Recycled Materials", "venue": "Magazine of RCR", "jif": null, "q": null, "cites": null, "role": "co-author", "pos": [4, 5], "doi": "https://koreascience.kr/article/JAKO201929565689155.page", "authors": [{"n": "Hun Song", "lab": false, "m": "†"}, {"n": "Hyung Mi Lim", "lab": false, "m": ""}, {"n": "Sun-Min Park", "lab": false, "m": ""}, {"n": "Hyunseok Ko", "lab": true, "m": ""}, {"n": "Han-Bom Kim", "lab": false, "m": ""}], "fig": 1}, {"id": 7, "date": "2019-08-01", "year": 2019, "title": "Synergistic effects of amine-modified ammonium polyphosphate on curing behaviors and flame retardation properties of epoxy composites", "venue": "Composites Part B: Engineering", "jif": null, "q": null, "cites": 105, "role": "co-author", "pos": [2, 3], "doi": "https://doi.org/10.1016/j.compositesb.2019.04.016", "authors": [{"n": "Myounguk  Kim", "lab": false, "m": "†"}, {"n": "Hyunseok Ko", "lab": true, "m": ""}, {"n": "Sun-Min Park", "lab": false, "m": ""}], "fig": 1}, {"id": 6, "date": "2017-09-14", "year": 2017, "title": "Cs diffusion in SiC high-energy grain boundaries", "venue": "Journal of Applied Physics", "jif": null, "q": null, "cites": 5, "role": "first", "pos": [1, 3], "doi": "https://doi.org/10.1063/1.4989389", "authors": [{"n": "Hyunseok Ko", "lab": true, "m": "†"}, {"n": "Izabela zlufarska", "lab": false, "m": ""}, {"n": "Dane Morgan", "lab": false, "m": ""}], "fig": 1}, {"id": 4, "date": "2017-08-01", "year": 2017, "title": "Optimization of self-interstitial clusters in 3C-SiC with genetic algorithm", "venue": "Journal of Nuclear Materials", "jif": null, "q": null, "cites": 17, "role": "first", "pos": [1, 4], "doi": "https://doi.org/10.1016/j.jnucmat.2017.05.015", "authors": [{"n": "Hyunseok Ko", "lab": true, "m": "†"}, {"n": "Amy Kaczmarowski", "lab": false, "m": ""}, {"n": "Izabela Szlufarska", "lab": false, "m": ""}, {"n": "Dane Morgan", "lab": false, "m": ""}], "fig": 1}, {"id": 3, "date": "2016-08-01", "year": 2016, "title": "Ag diffusion in SiC high-energy grain boundaries: Kinetic Monte Carlo study with first-principle calculations", "venue": "Computational Materials Science", "jif": null, "q": null, "cites": 32, "role": "first", "pos": [1, 4], "doi": "https://doi.org/10.1016/j.commatsci.2016.04.027", "authors": [{"n": "Hyunseok Ko", "lab": true, "m": "†"}, {"n": "Jie Deng", "lab": false, "m": ""}, {"n": "Izabela Szlufarska", "lab": false, "m": ""}, {"n": "Dane Morgan", "lab": false, "m": ""}], "fig": 1}, {"id": 2, "date": "2016-04-01", "year": 2016, "title": "Effect of carbon ion irradiation on Ag diffusion in SiC", "venue": "Journal of Nuclear Materials", "jif": null, "q": null, "cites": 19, "role": "first", "pos": [2, 9], "doi": "https://doi.org/10.1016/j.jnucmat.2015.11.017", "authors": [{"n": "Bin Leng", "lab": false, "m": "†"}, {"n": "Hyunseok Ko", "lab": true, "m": "†"}, {"n": "Tyler J. Gerczak", "lab": false, "m": ""}, {"n": "Jie Deng", "lab": false, "m": ""}, {"n": "Andrew J. Giordani", "lab": false, "m": ""}, {"n": "Jerry L. Hunter Jr", "lab": false, "m": ""}, {"n": "Dane Morgan", "lab": false, "m": ""}, {"n": "Izabela Szlufarska", "lab": false, "m": ""}, {"n": "Kumar Sridharan", "lab": false, "m": ""}], "fig": 1}, {"id": 64, "date": "2015-12-01", "year": 2015, "title": "Grain boundary diffusion of Ag through polycrystalline SiC in TRISO fuel particles", "venue": "Journal of Nuclear Materials", "jif": null, "q": null, "cites": 21, "role": "co-author", "pos": [2, 5], "doi": "https://doi.org/10.1016/j.jnucmat.2015.09.054", "authors": [{"n": "Jie Deng", "lab": false, "m": "†"}, {"n": "Hyunseok Ko", "lab": true, "m": ""}, {"n": "Paul Demkowicz", "lab": false, "m": ""}, {"n": "Dane Morgan", "lab": false, "m": ""}, {"n": "Izabela Szlufarska", "lab": false, "m": ""}], "fig": 1}]</script>
-<script src="assets/js/site.js?v=20261017h"></script>
+<script src="assets/js/site.js?v=20261017i"></script>
 </body>
 </html>

diff --git a/assets/js/site.js b/assets/js/site.js
@@ -134,7 +134,7 @@
       + ' · <b>Published</b> ' + p.date;
 
     return '<div class="entry">'
-      + '<div class="thumb">'+(p.fig ? '<img src="assets/img/pub/'+p.id+'.jpg?v=20261017h" alt="" loading="lazy">' : thumb(p.id))+'</div>'
+      + '<div class="thumb">'+(p.fig ? '<img src="assets/img/pub/'+p.id+'.jpg?v=20261017i" alt="" loading="lazy">' : thumb(p.id))+'</div>'
       + '<div>'
       +   '<div class="entry-title"><span class="pub-no">'+p.year+'-'+p.no+'</span>'+p.title+'</div>'
       +   '<div class="entry-authors">'+authors+'</div>'
